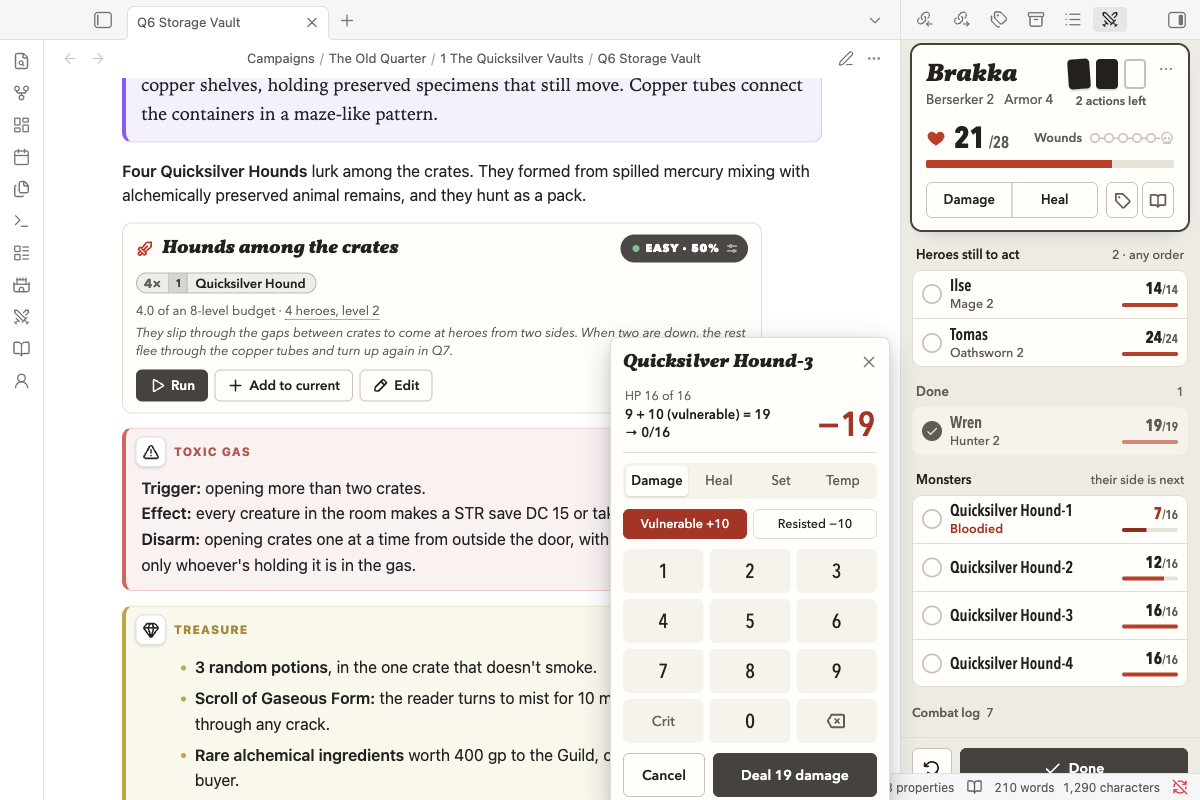
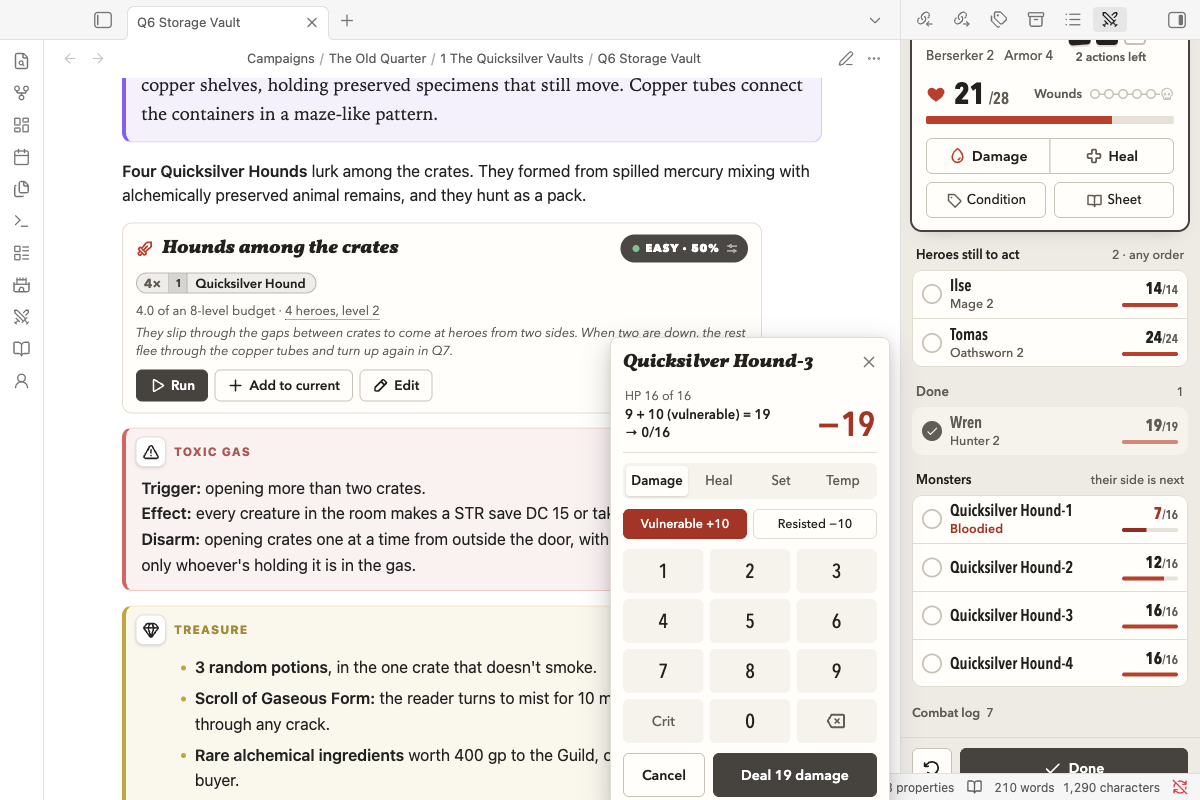
📝 Guide shows the narrow tracker card; narrow dialog footers keep whole labels
The tracker's guide shots are taken in a 300px sidebar, so they now show the card's two rows
(Damage | Heal with their icons, then Condition and Sheet), and the guide says when it happens.
A narrow dialog's footer gave every button an equal share, which cut a long main label
("Next: Subcl"); each now keeps at least its label's width, with tighter padding. A narrow
D&D Beyond checklist lets a long name wrap instead of running past the list's edge.

Changed region(s): [[0.7708, 0.0312, 0.9867, 0.2812]]

diff --git a/styles.css b/styles.css
@@ -4921,10 +4921,10 @@ body.is-tablet .nimble-count-modal button.nimble-count-seg { padding: 0 0.5rem; 
 /* The footer */
 .ev-dialog .ev-dialog-foot { display: flex; flex-wrap: wrap; align-items: center; justify-content: flex-end; gap: 8px; margin-top: 4px; container-type: inline-size; }
 .ev-dialog .ev-dialog-foot .is-cancel { margin-right: auto; }
-/* A narrow dialog (a phone-width window): the buttons fill the footer in equal parts, and with a second action
-   (Run now) the main one takes a row of its own under Cancel | the second. */
+/* A narrow dialog (a phone-width window): the buttons fill the footer, each at least its label's width, and with
+   a second action (Run now) the main one takes a row of its own under Cancel | the second. */
 @container (max-width: 360px) {
-	.ev-dialog:not(.is-compact) .ev-dialog-foot > .ev-dialog-btn { flex: 1 1 0; }
+	.ev-dialog:not(.is-compact) .ev-dialog-foot > .ev-dialog-btn { flex: 1 1 auto; padding-left: 10px; padding-right: 10px; }
 	.ev-dialog:not(.is-compact) .ev-dialog-foot > .ev-dialog-btn.is-cancel { margin-right: 0; }
 	.ev-dialog:not(.is-compact) .ev-dialog-foot > .ev-dialog-btn.is-second ~ .is-main { flex-basis: 100%; }
 }
@@ -7640,6 +7640,8 @@ body .workspace-leaf-content .ev-sheet-page:not(.nimble-show-props) .metadata-co
 .dnd5e-ddb-levels-icon { display: inline-flex; flex: 0 0 auto; padding-top: 1px; color: var(--ev-accent-text, var(--text-accent)); }
 .dnd5e-ddb-levels-icon svg { width: 16px; height: 16px; }
 @media (max-width: 480px) {
-	.dnd5e-ddb-name { flex-direction: column; align-items: flex-start; gap: 0; }
+	/* The kind under the name, and a long name ("Order of the Quiet Lantern") on two lines rather than off the edge. */
+	.dnd5e-ddb-name { flex-direction: column; align-items: stretch; gap: 0; }
+	.dnd5e-ddb-name > span:first-child { white-space: normal; }
 	.dnd5e-ddb-row { gap: 8px; padding: 6px 8px; }
 }

diff --git a/docs/tracker.md b/docs/tracker.md
@@ -16,7 +16,7 @@ Before the fight, the **Initiative** list has a box for each hero. Type what the
 
 ![The whole tracker mid-fight: the round, the Heroes and Monsters switch, Brakka on the card, two heroes still to act, Wren done, and the four hounds](images/feature-tracker.png)
 
-- **The card** is whoever is acting. It shows their HP, their actions and Wounds (heroes), their armor and actions (monsters), and **Damage** | **Heal**, **Add a condition** and a book button that opens their stat block or character sheet.
+- **The card** is whoever is acting. It shows their HP, their actions and Wounds (heroes), their armor and actions (monsters), and **Damage** | **Heal**, **Add a condition** and a book button that opens their stat block or character sheet. In a narrow sidebar or on a phone, **Damage** | **Heal** take the whole row and **Condition** and **Stat block** (or **Sheet**) get a row of their own.
 - **Heroes go in any order.** Tap whoever speaks up and they're on the card. **Done** at the bottom marks their turn done: they move to **Done**, grey and ticked, with their actions back for next time. When every hero has gone, the monsters' side starts.
 - **Monsters** go one after another: **Next: Quicksilver Hound-2** at the bottom names who's next, and after the last one it's **Round 2**. Tap any monster to take it out of order.
 - **Heroes** | **Monsters** at the top shows each side and how many have gone. Tap a side to switch to it; nothing is enforced.
